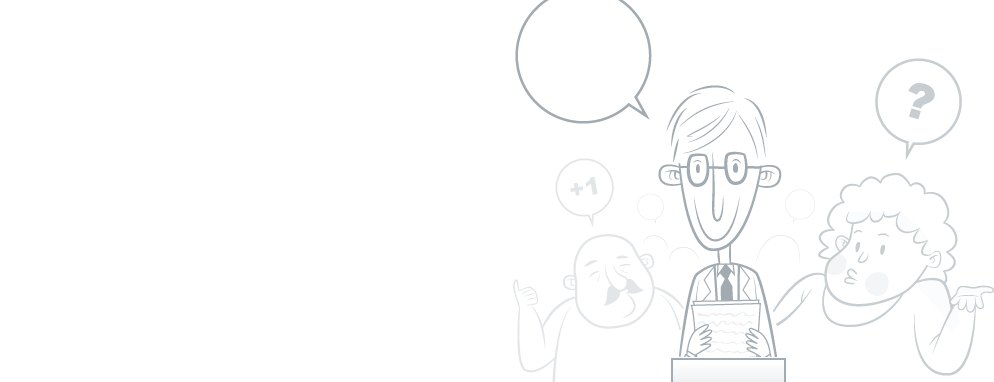
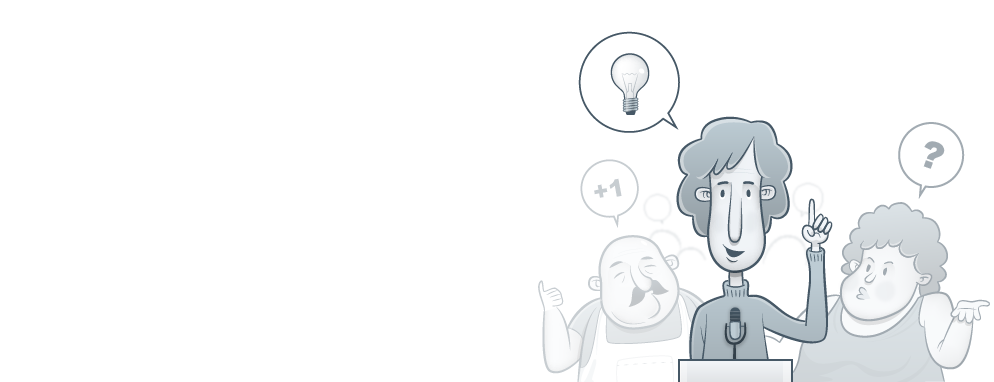
new illustration and [AREA FOLLOW] When following an area from the ribbon, the tipsy gets visible for ever

diff --git a/public/javascripts/application.js b/public/javascripts/application.js
@@ -113,6 +113,10 @@ $(function() {
       $('.article.summary > form.follow_button').remove();
       $(this).fadeIn(150);
     });
+
+    // Hide tooltip in any case
+    $('input.ribbon').tipsy("hide");
+    
     main_spinner.stop();
   }).live('ajax:error', function(evt, xhr, status) {
     $(this).effect("shake", { times:4 }, 100);
